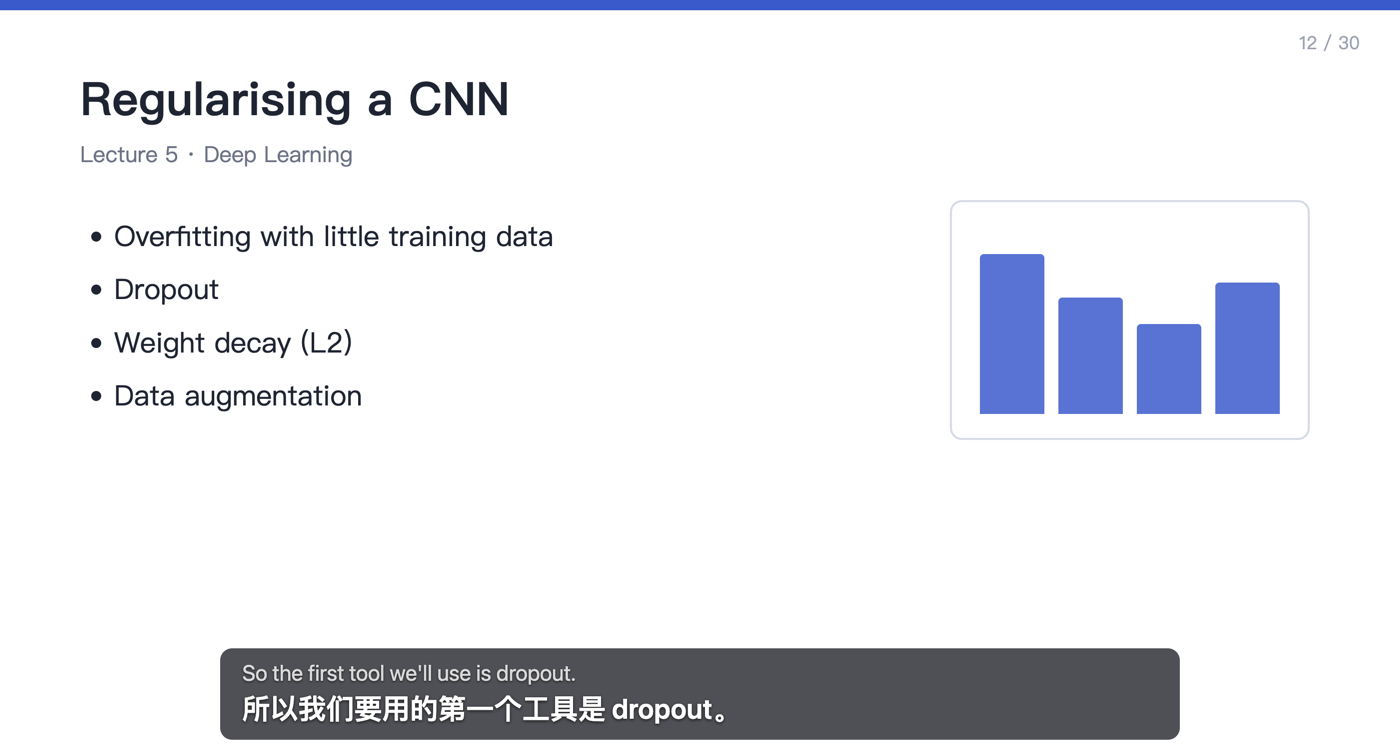
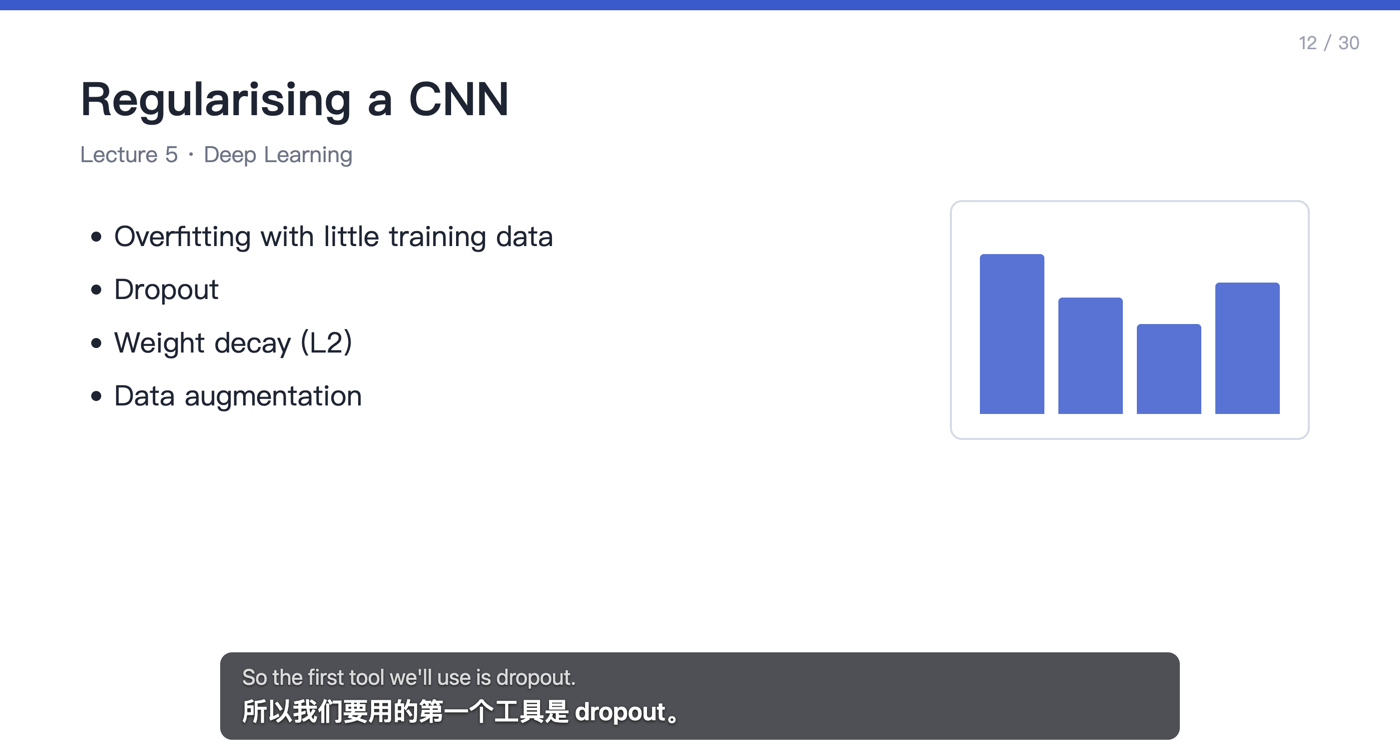
v0.8.1：悬浮字幕中文字号缩小一成

Changed region(s): [[0.1536, 0.8519, 0.8293, 0.9735]]

diff --git a/README.md b/README.md
@@ -4,7 +4,7 @@
 
 <p align="center">上课听不懂英文？课堂同传把老师说的话实时变成字幕，并翻译成中文；下课后自动整理成课后精讲。</p>
 
-<p align="center"><b>预览版 v0.8.0</b> · 免费 · Powered by 南瓜</p>
+<p align="center"><b>预览版 v0.8.1</b> · 免费 · Powered by 南瓜</p>
 
 <p align="center"><a href="../../releases/latest"><b>下载最新版</b></a></p>
 
@@ -49,11 +49,11 @@
 
 ## 下载安装
 
-1. 点本页最上面的 **「下载最新版」**（或者本页右侧 Releases 下的「课堂同传 v0.8.0 预览版」），在打开页面最下面的 **Assets** 里下载安装包：
-   - 苹果芯片的 Mac（M1、M2、M3、M4……）：下载 **「课堂同传 0.8.0 Mac（苹果芯片 M1–M4）」**
-   - Intel 芯片的 Mac：下载 **「课堂同传 0.8.0 Mac（Intel 芯片）」**
-   - Intel 或 AMD 芯片的 Windows 电脑（大多数电脑都是）：下载 **「课堂同传 0.8.0 Windows（Intel / AMD 芯片，大多数电脑）」**
-   - ARM 芯片的 Windows 电脑（比如部分 Surface、骁龙笔记本）：下载 **「课堂同传 0.8.0 Windows（ARM 芯片，如骁龙）」**
+1. 点本页最上面的 **「下载最新版」**（或者本页右侧 Releases 下的「课堂同传 v0.8.1 预览版」），在打开页面最下面的 **Assets** 里下载安装包：
+   - 苹果芯片的 Mac（M1、M2、M3、M4……）：下载 **「课堂同传 0.8.1 Mac（苹果芯片 M1–M4）」**
+   - Intel 芯片的 Mac：下载 **「课堂同传 0.8.1 Mac（Intel 芯片）」**
+   - Intel 或 AMD 芯片的 Windows 电脑（大多数电脑都是）：下载 **「课堂同传 0.8.1 Windows（Intel / AMD 芯片，大多数电脑）」**
+   - ARM 芯片的 Windows 电脑（比如部分 Surface、骁龙笔记本）：下载 **「课堂同传 0.8.1 Windows（ARM 芯片，如骁龙）」**
 
    不知道 Mac 是哪种芯片？点屏幕左上角的苹果图标 →「关于本机」，看「芯片」那一行。不知道 Windows 电脑是哪种芯片？打开「设置 → 系统 → 系统信息」，看「处理器」那一行。注意不要点绿色的「Code → Download ZIP」，那是源代码，不是软件。
 2. Mac：双击打开下载好的 `.dmg`，把「课堂同传」拖进「应用程序」文件夹，然后在「应用程序」里双击打开。
